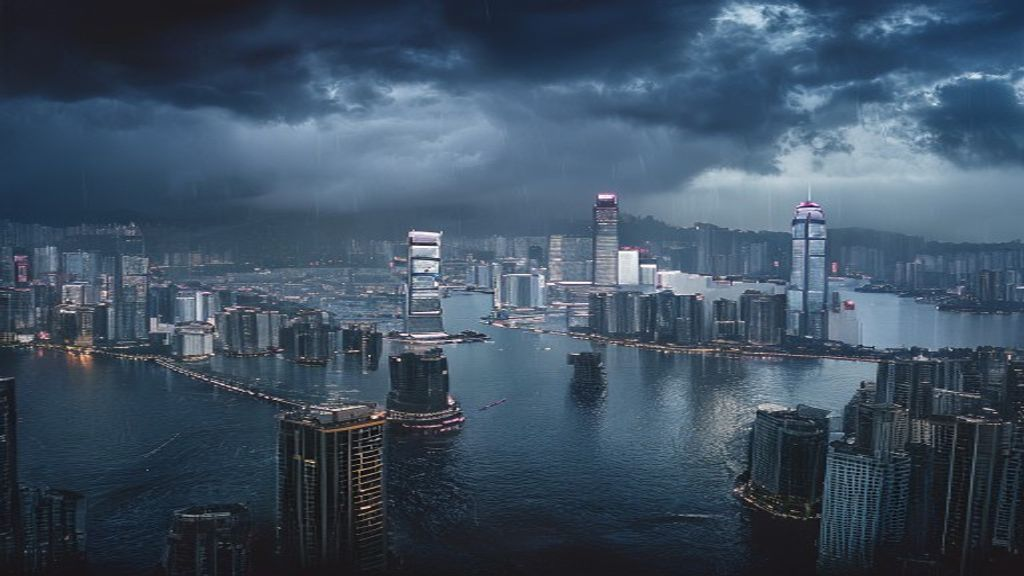
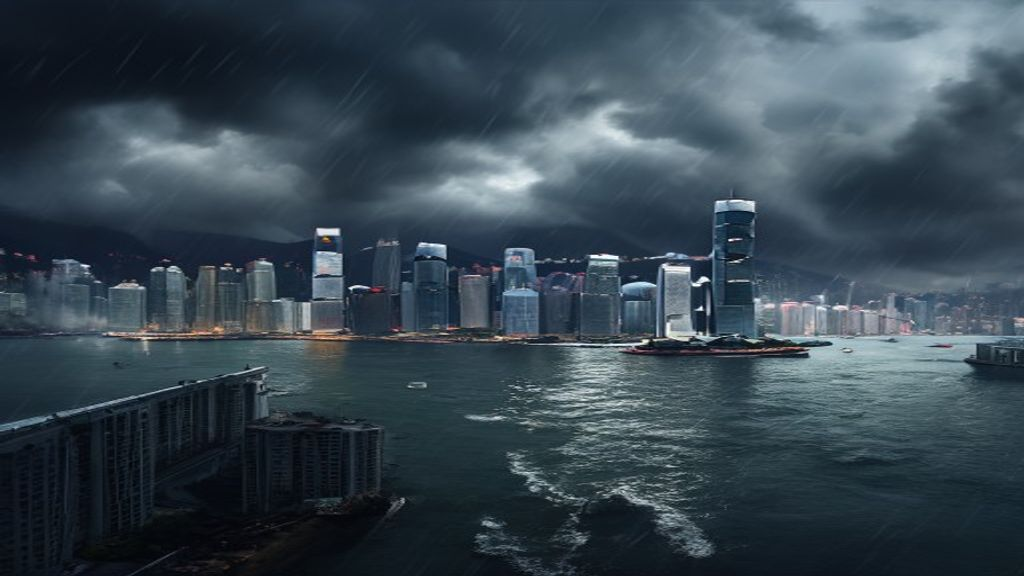
每日自動更新：20260630 - 天氣+新聞+專欄+首頁

diff --git a/reports/sono_20260630.html b/reports/sono_20260630.html
@@ -242,43 +242,43 @@
 <div class="section-panel active" id="panel-ai">
 <div class="section" id="ai">
   <div class="news-card ai">
-    <h3>Apple Siri AI 大革新 - iOS 27 正式由 Gemini 驅動 <span class="tag breakthrough">突破</span></h3>
+    <h3>The 2026 AI Index Report | Stanford HAI <span class="tag trend">趨勢</span></h3>
     <div class="expand-hint">⋯ 點擊展開</div>
     <div class="detail">
-    <div class="meta">Jun 23 / CCTV / <a href="https://news.cctv.com/2026/06/17/ARTIsLfWMTkZMEIcS4SkjdmV260617.shtml" target="_blank">來源</a></div>
-    <p>2026世界人工智能大會將於7月17-20日在上海舉辦，以「智能伙伴，共創未來」為主題，預計超過300款AI產品全球首發。</p>
+    <div class="meta">Jun 30 / Hai / <a href="https://hai.stanford.edu/ai-index/2026-ai-index-report" target="_blank">來源</a></div>
+    <p>The AI Index offers one of the most comprehensive, data-driven views of artificial intelligence. Recognized as a trusted resource by global media, governments, ...</p>
     </div>
   </div>
   <div class="news-card ai">
-    <h3>Claude Fable 5 登場 - Anthropic 將 Mythos 級AI開放俾公眾 <span class="tag breakthrough">突破</span></h3>
+    <h3>15 New Things AI Can Do in 2026 That Were Impossible Last Year <span class="tag breakthrough">突破</span></h3>
     <div class="expand-hint">⋯ 點擊展開</div>
     <div class="detail">
-    <div class="meta">Jun 23 / 新浪財經 / <a href="https://finance.sina.com.cn/stock/usstock/summary/2026-06-04/doc-iniafmmv2687104.shtml" target="_blank">來源</a></div>
-    <p>人工智能需求提振亞洲市場，日經指數創新高，資金流向AI基礎設施層。雖有地緣政治干擾，但市場已開始適應。</p>
+    <div class="meta">Jun 30 / Youtube / <a href="https://www.youtube.com/watch?v=IjHIE2DMUNg" target="_blank">來源</a></div>
+    <p>2026年4月17日 · What can AI do in 2026 that seemed impossible just last year? Artificial intelligence is evolving at an incredible pace, ...</p>
     </div>
   </div>
   <div class="news-card ai">
-    <h3>Gemini 3.5 Live Translate - 即時70+語言語音翻譯 <span class="tag trend">趨勢</span></h3>
+    <h3>2026 in artificial intelligence - Wikipedia <span class="tag trend">趨勢</span></h3>
     <div class="expand-hint">⋯ 點擊展開</div>
     <div class="detail">
-    <div class="meta">Jun 23 / 知乎 / <a href="https://zhuanlan.zhihu.com/p/2053614562792960208" target="_blank">來源</a></div>
-    <p>2026年6月全球AI產業迎來密集技術發布——國產模型與算力生態實現多項關鍵突破，智能體加速向各場景落地。</p>
+    <div class="meta">Jun 30 / En / <a href="https://en.wikipedia.org/wiki/2026_in_artificial_intelligence" target="_blank">來源</a></div>
+    <p>The following is a list of events of the year 2026 in artificial intelligence, as well as predicted and scheduled events that have not yet occurred.</p>
     </div>
   </div>
   <div class="news-card ai">
-    <h3>2026 AI 三強鼎立 - GPT-5.5 vs Claude Fable 5 vs Gemini 2.5 Pro <span class="tag trend">趨勢</span></h3>
+    <h3>What&#x27;s next in AI: 7 trends to watch in 2026 - Microsoft Source <span class="tag trend">趨勢</span></h3>
     <div class="expand-hint">⋯ 點擊展開</div>
     <div class="detail">
-    <div class="meta">Jun 23 / 騰訊新聞 / <a href="https://news.qq.com/rain/a/20260427A06E5Y00" target="_blank">來源</a></div>
-    <p>史丹福大學發布《2026年人工智能指數報告》，頂尖AI模型加速升級，頭部AI企業準備於下半年提交IPO申請。</p>
+    <div class="meta">Jun 30 / News / <a href="https://news.microsoft.com/source/features/ai/whats-next-in-ai-7-trends-to-watch-in-2026/" target="_blank">來源</a></div>
+    <p>2025年12月8日 · Seven AI trends to watch in 2026 will make AI a true partner — boosting teamwork, security, research momentum and infrastructure efficiency.</p>
     </div>
   </div>
   <div class="news-card ai">
-    <h3>NASA 羅曼太空望遠鏡抵達佛羅里達 - 8月30日發射 <span class="tag breakthrough">突破</span></h3>
+    <h3>A.I. Streaming Now Trailer (2026) Josh Stamberg - YouTube <span class="tag trend">趨勢</span></h3>
     <div class="expand-hint">⋯ 點擊展開</div>
     <div class="detail">
-    <div class="meta">Jun 23 / 新華社 / <a href="https://www.news.cn/tech/20260617/d9fe4b3886504512bb9c9dbdb0e273f8/c.html" target="_blank">來源</a></div>
-    <p>國新辦新聞發布會宣布，2026世界人工智能大會暨人工智能全球治理高級別會議將於7月在上海舉辦。</p>
+    <div class="meta">Jun 30 / Youtube / <a href="https://www.youtube.com/watch?v=W3HTujL75DI" target="_blank">來源</a></div>
+    <p>2026年4月14日 · A.I. Official Trailer (2026) Josh Stamberg, Ian Sharkey Writer/Director Lanxuan Xie © 2026 - TriCoast Entertainment.</p>
     </div>
   </div>
 </div>
@@ -286,44 +286,43 @@
 <div class="section-panel" id="panel-space">
 <div class="section" id="space">
   <div class="news-card space">
-    <a href="https://www.bbc.com/zhongwen/articles/cqj8q94v5ezo/trad" target="_blank"><img src="https://ichef.bbci.co.uk/news/1200/branded_zhongwen/3cfd/live/ba3bfc50-2f18-11f1-b4a9-2dc7e92be515.jpg" alt="news" loading="lazy"></a>
-    <h3>SpaceX Starship 2026 - 全面可重用時代降臨 <span class="tag trend">趨勢</span></h3>
+    <h3>Space.com: NASA, Space Exploration and Astronomy News <span class="tag breakthrough">突破</span></h3>
     <div class="expand-hint">⋯ 點擊展開</div>
     <div class="detail">
-    <div class="meta">Jun 23 / BBC中文 / <a href="https://www.bbc.com/zhongwen/articles/cqj8q94v5ezo/trad" target="_blank">來源</a></div>
-    <p>NASA阿提米絲2號火箭成功發射，這是超過50年來人類首次再度展開載人繞月任務。BBC分析接下來的關鍵時間表。</p>
+    <div class="meta">Jun 30 / Space / <a href="https://www.space.com/" target="_blank">來源</a></div>
+    <p>Rocket Lab plans to launch a Japanese Earth-observing radar satellite to orbit tonight (June 30) at 9 p.m. (0100 GMT on July 1). Watch it live here and read our ...</p>
     </div>
   </div>
   <div class="news-card space">
-    <h3>Webb 發現系外行星「兩個不同的黃昏」 <span class="tag breakthrough">突破</span></h3>
+    <h3>2026 NASA News Releases <span class="tag breakthrough">突破</span></h3>
     <div class="expand-hint">⋯ 點擊展開</div>
     <div class="detail">
-    <div class="meta">Jun 23 / 太空地圖 / <a href="https://spacemapper.cn/zh-cn/info/news/1475190391308289.html" target="_blank">來源</a></div>
-    <p>SpaceX獵鷹9號完成Starlink Group 17-28組網任務，將24顆V2 Mini衛星送入近地軌道。商業火箭發射已變得如航班般頻繁。</p>
+    <div class="meta">Jun 30 / Nasa / <a href="https://www.nasa.gov/2026-news-releases/" target="_blank">來源</a></div>
+    <p>NASA astronauts will venture outside the International Space Station on Tuesday, June 30, to replace a wrist joint on the orbital complex&#x27;s Canadarm2 robotic ...</p>
     </div>
   </div>
   <div class="news-card space">
-    <h3>Artemis II 即將啟航 - 人類重返月球倒數 <span class="tag trend">趨勢</span></h3>
+    <h3>NASA&#x27;s SpaceX 34th Commercial Resupply Services Rendezvous ... <span class="tag trend">趨勢</span></h3>
     <div class="expand-hint">⋯ 點擊展開</div>
     <div class="detail">
-    <div class="meta">Jun 23 / Spaceflight Now / <a href="https://cislunarspace.cn/space-news/2026/06/" target="_blank">來源</a></div>
-    <p>NASA已公布Artemis 3登月任務乘組名單，由Randy Bresnik擔任指令長，預計2027年初執行人類重返月球表面的任務。</p>
+    <div class="meta">Jun 30 / Youtube / <a href="https://www.youtube.com/watch?v=MiNbfSt3JzY" target="_blank">來源</a></div>
+    <p>2026年5月17日 · After a successful launch on May 15, 2026, from Cape Canaveral Space Force Station in Florida, a SpaceX Dragon cargo spacecraft will ...</p>
     </div>
   </div>
   <div class="news-card space">
-    <h3>美國再釋出72份UFO檔案 - 東北部「發光球體」成焦點 <span class="tag alert">警示</span></h3>
+    <h3>Updates - SpaceX <span class="tag trend">趨勢</span></h3>
     <div class="expand-hint">⋯ 點擊展開</div>
     <div class="detail">
-    <div class="meta">Jun 23 / Space.com / <a href="https://cislunarspace.cn/space-news/2026/06/" target="_blank">來源</a></div>
-    <p>本月初NASA指示Crew-12乘員進入龍飛船避險，俄羅斯太空人出艙修補PrK轉運通道漏氣點——國際太空站老化問題浮上檯面。</p>
+    <div class="meta">Jun 30 / Spacex / <a href="https://www.spacex.com/updates" target="_blank">來源</a></div>
+    <p>The next major flight milestones tied specifically to HLS will be a long-duration flight test and the in-space propellant transfer flight test. The exact timing ...</p>
     </div>
   </div>
   <div class="news-card space">
-    <h3>David Grusch 國會山莊集會 - 吹哨者要求全面UAP揭露 <span class="tag alert">警示</span></h3>
+    <h3>Space Exploration Technologies - S-1 - SEC.gov <span class="tag trend">趨勢</span></h3>
     <div class="expand-hint">⋯ 點擊展開</div>
     <div class="detail">
-    <div class="meta">Jun 23 / 維基百科 / <a href="https://zh.wikipedia.org/zh-tw/2026年航天活動列表" target="_blank">來源</a></div>
-    <p>2026年上半年航天活動密集：SpaceX星艦IFT-12（V3版首飛）、俄羅斯聯盟5號首飛、歐洲太空總署忒彌斯可重用火箭試飛均取得進展。</p>
+    <div class="meta">Jun 30 / Sec / <a href="https://www.sec.gov/Archives/edgar/data/1181412/000162828026036936/spaceexplorationtechnologi.htm" target="_blank">來源</a></div>
+    <p>“Dragon” refers to our Dragon spacecraft. ... “Falcon 1” refers to our two-stage, liquid-fueled small-lift launch vehicle that operated from 2006 to 2009.</p>
     </div>
   </div>
 </div>
@@ -331,45 +330,43 @@
 <div class="section-panel" id="panel-ufo">
 <div class="section" id="ufo">
   <div class="news-card ufo">
-    <a href="https://www.wenweipo.com/a/202605/23/AP6a119d71e4b0b49ad1bc5e86.html" target="_blank"><img src="https://dw-media.wenweipo.com/dams/wwpproduct/image/202605/23/6a119c61e4b08c07fc6e82a21d3e1f9a.png" alt="news" loading="lazy"></a>
-    <h3>PURSUE 計劃啟動 - 美國總統下令系統性解密UAP檔案 <span class="tag trend">趨勢</span></h3>
+    <h3>UFO files: Avi Loeb with alien theories to lead White House council - CP24 <span class="tag trend">趨勢</span></h3>
     <div class="expand-hint">⋯ 點擊展開</div>
     <div class="detail">
-    <div class="meta">Jun 23 / 文匯報 / <a href="https://www.wenweipo.com/a/202605/23/AP6a119d71e4b0b49ad1bc5e86.html" target="_blank">來源</a></div>
-    <p>美國國防部繼5月8日公布首批161份UFO檔案後，再公布第二批共222份歷史文件、照片和影片等解密資料。</p>
+    <div class="meta">Jun 30 / Cp24 / <a href="https://www.cp24.com/news/world/2026/06/30/harvard-professor-with-polarizing-alien-theories-is-picked-to-lead-new-white-house-ufo-council/" target="_blank">來源</a></div>
+    <p>6 小時前 · A Pentagon office that investigates UAP says it has seen no evidence of alien life. ... Some of the best-known Canadian UFO sightings over the ...</p>
     </div>
   </div>
   <div class="news-card ufo">
-    <h3>瀕死經驗科學大辯論 - NEPTUNE模型 vs 意識獨立假說 <span class="tag breakthrough">突破</span></h3>
+    <h3>White House picks Harvard professor with polarizing alien theories ... - PBS <span class="tag trend">趨勢</span></h3>
     <div class="expand-hint">⋯ 點擊展開</div>
     <div class="detail">
-    <div class="meta">Jun 23 / Yahoo財經 / <a href="https://hk.finance.yahoo.com/news/ufo檔案真的公開了-川普-大家盡情看吧-204202355.html" target="_blank">來源</a></div>
-    <p>川普在Truth Social發文表示：「為了完全且最大程度的透明，我很榮幸指示政府公開與外星生命、UAP及UFO有關的政府檔案。」</p>
+    <div class="meta">Jun 30 / Pbs / <a href="https://www.pbs.org/newshour/politics/white-house-picks-harvard-professor-with-polarizing-alien-theories-to-lead-new-ufo-council" target="_blank">來源</a></div>
+    <p>A Pentagon office that investigates UAP says it has seen no evidence of alien life. ... Pentagon study finds no sign of alien life in reported UFO ...</p>
     </div>
   </div>
   <div class="news-card ufo">
-    <a href="https://www.sbs.com.au/language/chinese/zh-hant/podcast-episode/ufo-files-unsealed-scientific-breakthrough-or-another-global-conspiracy/iw7g1vmcd" target="_blank"><img src="https://assets.sbs.com.au/dims4/default/bd1cea1/2147483647/strip/true/crop/3871x2178+0+204/resize/1280x720!/quality/90/?url=http%3A%2F%2Fsbs-au-brightspot.s3.amazonaws.com%2F8c%2F4e%2F1dcce9b2407db17b0d0cebc23692%2Fgettyimages-1414579775.jpg" alt="news" loading="lazy"></a>
-    <h3>實驗意識科學突破 - 物理主義假設面臨挑戰 <span class="tag breakthrough">突破</span></h3>
+    <h3>Pentagon UFO videos - Wikipedia <span class="tag trend">趨勢</span></h3>
     <div class="expand-hint">⋯ 點擊展開</div>
     <div class="detail">
-    <div class="meta">Jun 23 / SBS中文 / <a href="https://www.sbs.com.au/language/chinese/zh-hant/podcast-episode/ufo-files-unsealed-scientific-breakthrough-or-another-global-conspiracy/iw7g1vmcd" target="_blank">來源</a></div>
-    <p>SBS中文深入分析美國UFO解密潮——「不明異常現象」(UAP)正試圖取代傳統「不明飛行物體」(UFO)的稱呼，涵蓋天空、水下或太空等無法即時解釋的異常現象。</p>
+    <div class="meta">Jun 30 / En / <a href="https://en.wikipedia.org/wiki/Pentagon_UFO_videos" target="_blank">來源</a></div>
+    <p>June 2021 UFO report. edit. Main article: UFO Report ... &quot;Upcoming UFO report: No evidence sightings were alien, but lacks definitive explanation to origin&quot;.</p>
     </div>
   </div>
   <div class="news-card ufo">
-    <h3>2026鬼魂研究 - 科學儀器遇上超自然 <span class="tag trend">趨勢</span></h3>
+    <h3>Presidential Unsealing and Reporting System for UAP Encounters <span class="tag trend">趨勢</span></h3>
     <div class="expand-hint">⋯ 點擊展開</div>
     <div class="detail">
-    <div class="meta">Jun 23 / 維基百科 / <a href="https://zh.wikipedia.org/zh-hk/美國情報界不明飛行物調查報告" target="_blank">來源</a></div>
-    <p>美國海軍情報局、UAPTF及聯邦調查局彙整的UAP資料指出，不明空中現象與國家安全及飛行員安全之間存在密切關聯。</p>
+    <div class="meta">Jun 30 / War / <a href="https://www.war.gov/ufo/" target="_blank">來源</a></div>
+    <p>UFO. Search. Search Search. Back; Home; Place Holder; News · Press Products · Today ... alien and extraterrestrial life, unidentified aerial phenomena (UAP), and ...</p>
     </div>
   </div>
   <div class="news-card ufo">
-    <h3>美國解密UFO檔案——盲眼龍婆生前預言：「11月外星飛船進入地球」 <span class="tag trend">趨勢</span></h3>
+    <h3>UFO SIGHTING: A third batch of declassified UAP files was released ... <span class="tag trend">趨勢</span></h3>
     <div class="expand-hint">⋯ 點擊展開</div>
     <div class="detail">
-    <div class="meta">Jun 23 / HK01 / <a href="https://www.hk01.com/環球趣聞/60349051/美國解密ufo檔案-盲眼龍婆生前預言-11月外星飛船進入地球" target="_blank">來源</a></div>
-    <p>美國五角大樓正式解密並公開161份UAP機密檔案後，保加利亞已故預言家「盲眼龍婆」Baba Vanga的預言再次引起全球關注。</p>
+    <div class="meta">Jun 30 / Facebook / <a href="https://www.facebook.com/Fox32Chicago/videos/ufo-sighting-a-third-batch-of-declassified-uap-files-was-released-by-the-pentago/1498128388008687/" target="_blank">來源</a></div>
+    <p>2026年6月12日 · UFO SIGHTING: A third batch of declassified UAP files was ... So if I record an alien or whatever from my back yard, it&#x27;s classified?</p>
     </div>
   </div>
 </div>
@@ -377,45 +374,43 @@
 <div class="section-panel" id="panel-paranormal">
 <div class="section" id="paranormal">
   <div class="news-card paranormal">
-    <a href="https://www.youtube.com/watch?v=m7QEJRCM2QM" target="_blank"><img src="https://i.ytimg.com/vi/m7QEJRCM2QM/maxresdefault.jpg" alt="news" loading="lazy"></a>
-    <h3>【鬼故】迷離夜話 S2 EP47 — 2026六月號：廣東話靈異故事特輯 <span class="tag trend">趨勢</span></h3>
+    <h3>“IF GHOSTS DON&#x27;T EXIST, WHY DO PEOPLE SEE THEM ... - Instagram <span class="tag trend">趨勢</span></h3>
     <div class="expand-hint">⋯ 點擊展開</div>
     <div class="detail">
-    <div class="meta">Jun 23 / YouTube Room410 / <a href="https://www.youtube.com/watch?v=m7QEJRCM2QM" target="_blank">來源</a></div>
-    <p>2026年6月號迷離夜話，收集廣東話觀眾投稿的真實靈異經歷，包括神秘超自然現象及無法解釋的奇幻事件。</p>
+    <div class="meta">Jun 30 / Instagram / <a href="https://www.instagram.com/reel/DTvaFRMjCW0/" target="_blank">來源</a></div>
+    <p>2026年1月20日 · A spooky weekend away. A paranormal investigation. Ghost hunting goodies. HauntMap merch. Spending money. And one unforgettable prize package.</p>
     </div>
   </div>
   <div class="news-card paranormal">
-    <a href="https://dream.bhuntr.com/article/horror-movie-recommend-2026" target="_blank"><img src="https://cdn.bountyhunter.co/file/274d36f8-5299-4dd4-9daa-f0f41645782d.jpg" alt="news" loading="lazy"></a>
-    <h3>2026恐怖片推薦：最新靈異驚悚電影上映資訊大集合 <span class="tag trend">趨勢</span></h3>
+    <h3>Meet the cast of Paranormal Activity James Bye returns to Plymouth after ... <span class="tag trend">趨勢</span></h3>
     <div class="expand-hint">⋯ 點擊展開</div>
     <div class="detail">
-    <div class="meta">Jun 23 / Dream BHuntr / <a href="https://dream.bhuntr.com/article/horror-movie-recommend-2026" target="_blank">來源</a></div>
-    <p>2026年泰國、歐美最新鬼片及驚悚電影上映資訊整理，包括《鬼入獄》、《鬼新娘2026》等備受期待的恐怖作品。</p>
+    <div class="meta">Jun 30 / Instagram / <a href="https://www.instagram.com/p/DZLMgtvFmWr/" target="_blank">來源</a></div>
+    <p>2026年6月4日 · James Bye returns to Plymouth after starring in 2:22 A Ghost Story earlier this year, alongside a talented cast ready to bring the supernatural ...</p>
     </div>
   </div>
   <div class="news-card paranormal">
-    <h3>2026年6月絕對是恐怖與驚悚電影最精彩的一年 <span class="tag alert">警告</span></h3>
+    <h3>Enjoy a few supernatural stories from staff in celebration of National ... <span class="tag trend">趨勢</span></h3>
     <div class="expand-hint">⋯ 點擊展開</div>
     <div class="detail">
-    <div class="meta">Jun 23 / Instagram / <a href="https://www.instagram.com/p/DZP6nhBk9ka/" target="_blank">來源</a></div>
-    <p>《鬼入糕 CELL GHOST》6月10日全台上映，多部恐怖片集中於2026年上半年推出，被影迷譽為最精彩的恐怖電影年。</p>
+    <div class="meta">Jun 30 / Instagram / <a href="https://www.instagram.com/p/DX4erUsEwby/" target="_blank">來源</a></div>
+    <p>2026年5月3日 · Join us on June 27th for a paranormal investigation at a haunted musuem! 🏛️ Tickets 🎟️: https://whisperingsoulsparanormal.com/event/greene-county ...</p>
     </div>
   </div>
   <div class="news-card paranormal">
-    <h3>Reddit靈異討論區：2026年最新超自然體驗電視節目推薦 <span class="tag trend">趨勢</span></h3>
+    <h3>Video Inside YouTube&#x27;s &#x27;Ghost Club Paranormal&#x27; - ABC News <span class="tag breakthrough">突破</span></h3>
     <div class="expand-hint">⋯ 點擊展開</div>
     <div class="detail">
-    <div class="meta">Jun 23 / Reddit r/Ghosts / <a href="https://www.reddit.com/r/Ghosts/comments/1ov8umq/any_new_paranormal_experience_tv_shows_in_2026/" target="_blank">來源</a></div>
-    <p>Reddit靈異討論區熱議2026年最新超自然體驗節目，包括Project Fear、Ghost Hunters等YouTube靈異內容創作者的最新動態。</p>
+    <div class="meta">Jun 30 / Abcnews / <a href="https://abcnews.com/video/125611515/" target="_blank">來源</a></div>
+    <p>2025年9月15日 · Supernatural Investigating Duo Mandy and Jade of &quot;Ghost Club Paranormal&quot; explore a 115 year old jail in Globe, Arizona, looking for what they ...</p>
     </div>
   </div>
   <div class="news-card paranormal">
-    <h3>Threads熱門靈異話題：「蓋一篇靈異事件樓」——2026年最恐怖親身經歷 <span class="tag trend">趨勢</span></h3>
+    <h3>Ghost sightings. Strange disappearances. Unexplained ... <span class="tag trend">趨勢</span></h3>
     <div class="expand-hint">⋯ 點擊展開</div>
     <div class="detail">
-    <div class="meta">Jun 23 / Threads / <a href="https://www.threads.com/@tingshuoyougui/video/DXiSymSE25b/" target="_blank">來源</a></div>
-    <p>Threads平台「聽說有鬼」話題掀起2026年最恐怖靈異經歷分享潮，網友踴躍投稿第一手超自然親身經歷。</p>
+    <div class="meta">Jun 30 / Facebook / <a href="https://www.facebook.com/DiscoverySEAsia/videos/ghost-sightings-strange-disappearances-unexplained-phenomena-that-refuse-to-stay/1025210993372822/" target="_blank">來源</a></div>
+    <p>2026年5月28日 · ... paranormal encounters, and stories that blur the line between science and the supernatural. Expedition X Season 6 Premieres June 3 on ...</p>
     </div>
   </div>
 </div>